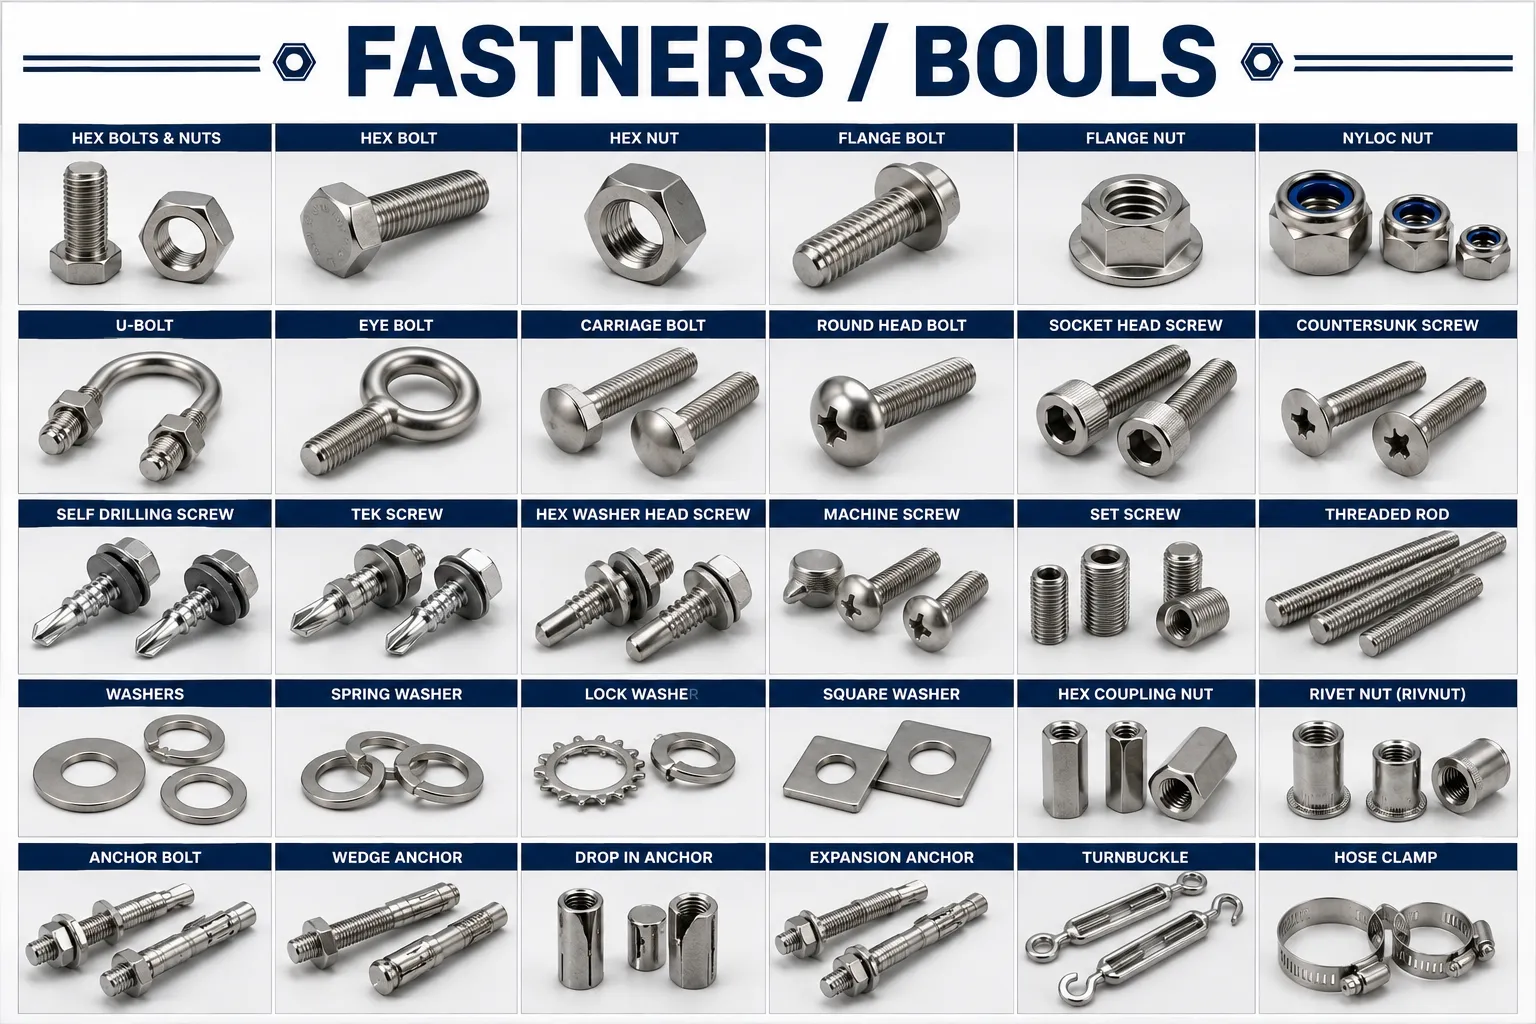
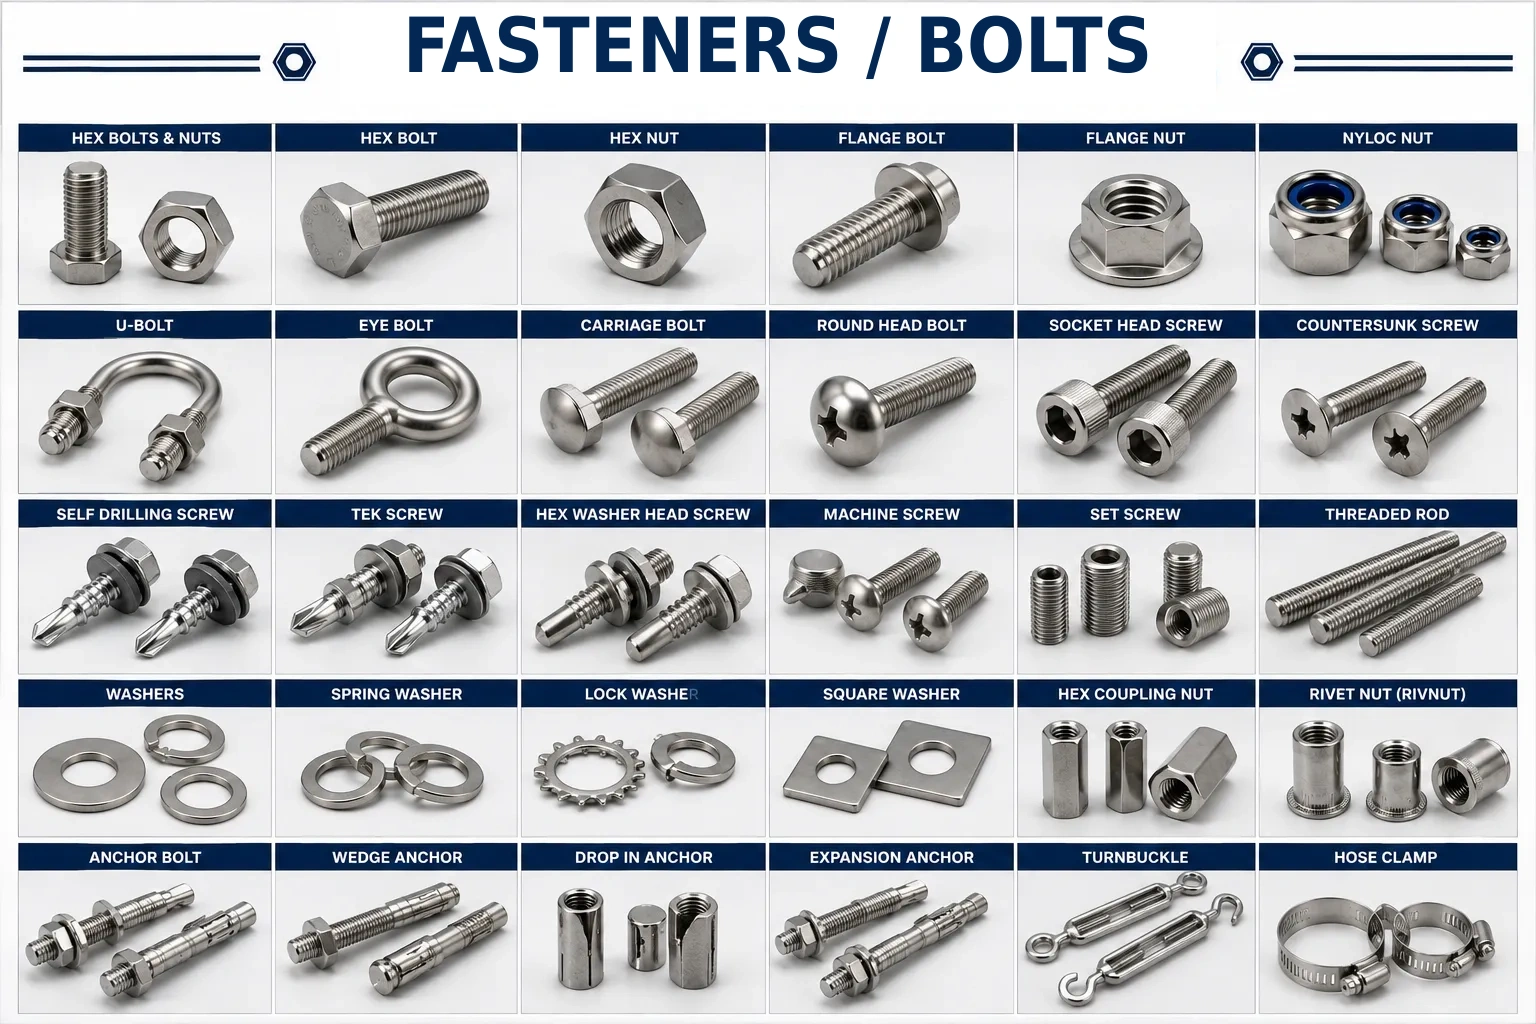
updates

Changed region(s): [[0.2188, 0.0, 0.8125, 0.0938]]

diff --git a/elegant-fencing-studio/FASTENERS_BOLTS_IMAGE_TEXT_FIX.md b/elegant-fencing-studio/FASTENERS_BOLTS_IMAGE_TEXT_FIX.md
@@ -1,0 +1,7 @@
+# Fasteners / Bolts Image Text Fix
+
+Updated the Fasteners / Bolts product image used on the product archive and PDF-mapped product page.
+
+- Corrected image title text from `FASTNERS / BOULS` to `FASTENERS / BOLTS`.
+- Replaced: `public/products/pdf-mapped/fasteners-bolts/fasteners-bolts-01.webp`
+- No layout, RFQ, mobile, SEO, PDF content, GCC content, FAQ, or metadata changes were made.
